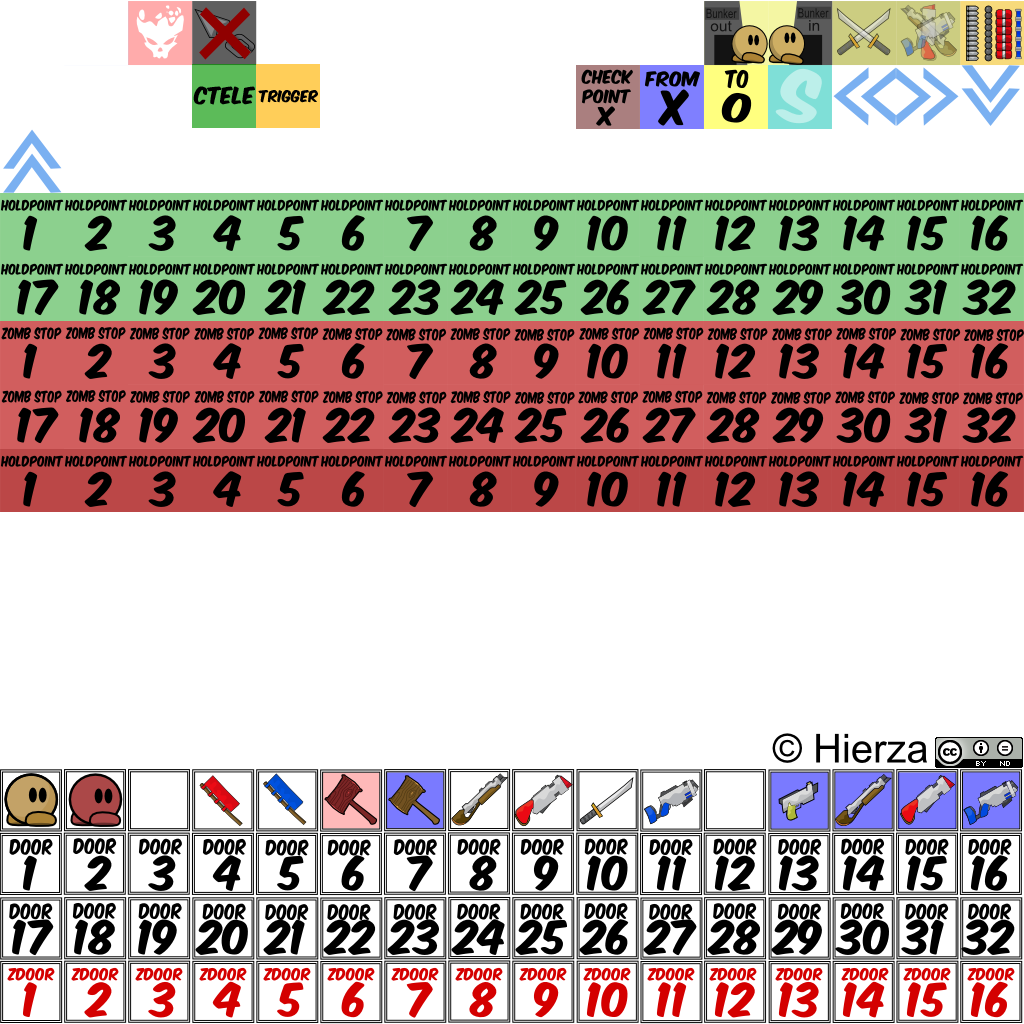
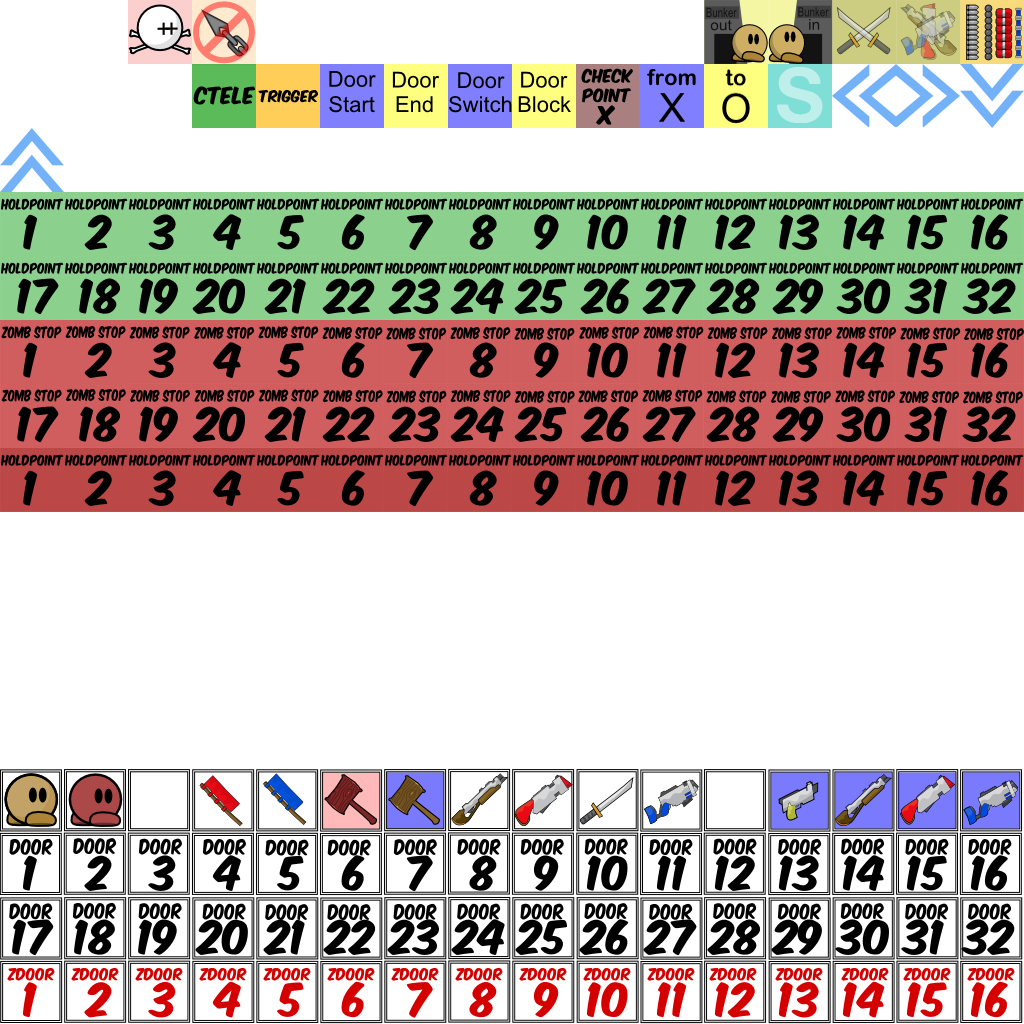
fixed some things, changed entities and added edit command.

diff --git a/src/game/editor/editor.cpp b/src/game/editor/editor.cpp
@@ -3593,7 +3593,7 @@ void CEditor::RenderServerSettingsEditor(CUIRect View)
 		UI()->DoLabel(&Button, "Command:", 12.0f, -1);
 
 		Button.VSplitLeft(70.0f, 0, &Button);
-		Button.VSplitLeft(180.0f, &Button, 0);
+		Button.VSplitLeft(500.0f, &Button, 0);
 		DoEditBox(&m_CommandBox, &Button, m_aSettingsCommand, sizeof(m_aSettingsCommand), 12.0f, &m_CommandBox);
 
 		// buttons
@@ -3617,6 +3617,8 @@ void CEditor::RenderServerSettingsEditor(CUIRect View)
 					CEditorMap::CSetting Setting;
 					str_copy(Setting.m_aCommand, m_aSettingsCommand, sizeof(Setting.m_aCommand));
 					m_Map.m_lSettings.add(Setting);
+					if(m_IsEditingSettingsCommand)
+						m_IsEditingSettingsCommand = false;
 				}
 			}
 		}
@@ -3625,11 +3627,38 @@ void CEditor::RenderServerSettingsEditor(CUIRect View)
 		{
 			ToolBar.VSplitRight(50.0f, &ToolBar, &Button);
 			Button.VSplitRight(5.0f, &Button, 0);
-			static int s_AddButton = 0;
-			if(DoButton_Editor(&s_AddButton, "Del", 0, &Button, 0, "Delete a command from the command list.")
-				|| Input()->KeyDown(KEY_DELETE))
+			static int s_DeleteButton = 0;
+			if(DoButton_Editor(&s_DeleteButton, "Del", 0, &Button, 0, "Delete a command from the command list."))
 				if(s_CommandSelectedIndex > -1 && s_CommandSelectedIndex < m_Map.m_lSettings.size())
 					m_Map.m_lSettings.remove_index(s_CommandSelectedIndex);
+
+			ToolBar.VSplitRight(50.0f, &ToolBar, &Button);
+			Button.VSplitRight(10.0f, &Button, 0);
+			static int s_EditButton = 0;
+			if(DoButton_Editor(&s_EditButton, "Edit", 0, &Button, 0, "Edit a command from the command list."))
+				if(s_CommandSelectedIndex > -1 && s_CommandSelectedIndex < m_Map.m_lSettings.size())
+				{
+					if(m_IsEditingSettingsCommand && m_aSettingsCommand[0] != 0 && str_find(m_aSettingsCommand, " "))
+					{
+						bool Found = false;
+						for(int i = 0; i < m_Map.m_lSettings.size(); i++)
+							if(!str_comp(m_Map.m_lSettings[i].m_aCommand, m_aSettingsCommand))
+							{
+								Found = true;
+								break;
+							}
+
+							if(!Found)
+							{
+								CEditorMap::CSetting Setting;
+								str_copy(Setting.m_aCommand, m_aSettingsCommand, sizeof(Setting.m_aCommand));
+								m_Map.m_lSettings.add(Setting);
+							}
+					}
+					str_copy(m_aSettingsCommand, m_Map.m_lSettings[s_CommandSelectedIndex].m_aCommand, sizeof(m_aSettingsCommand));
+					m_Map.m_lSettings.remove_index(s_CommandSelectedIndex);
+					m_IsEditingSettingsCommand = true;
+				}
 		}
 	}
 

diff --git a/src/game/editor/layer_tiles.cpp b/src/game/editor/layer_tiles.cpp
@@ -281,7 +281,7 @@ void CLayerTiles::BrushDraw(CLayer *pBrush, float wx, float wy)
 				continue;
 
 			// dont allow tele in and out tiles... same with speedup tile and tool
-			if(m_pEditor->GetSelectedLayer(0) == m_pEditor->m_Map.m_pGameLayer && (l->m_pTiles[y*l->m_Width+x].m_Index == TILE_TELEIN || l->m_pTiles[y*l->m_Width+x].m_Index == TILE_TELEOUT || l->m_pTiles[y*l->m_Width+x].m_Index == TILE_BOOST || (l->m_pTiles[y*l->m_Width+x].m_Index >= 19 && l->m_pTiles[y*l->m_Width+x].m_Index <= 24)))
+			if(m_pEditor->GetSelectedLayer(0) == m_pEditor->m_Map.m_pGameLayer && l->m_pTiles[y*l->m_Width+x].m_Index >= 19 && l->m_pTiles[y*l->m_Width+x].m_Index <= 27)
 				continue;
 
 			m_pTiles[fy*m_Width+fx] = l->m_pTiles[y*l->m_Width+x];
@@ -681,7 +681,7 @@ void CLayerTele::BrushDraw(CLayer *pBrush, float wx, float wy)
 			if(fx<0 || fx >= m_Width || fy < 0 || fy >= m_Height)
 				continue;
 			
-			if(l->m_pTiles[y*l->m_Width+x].m_Index == TILE_TELEIN || l->m_pTiles[y*l->m_Width+x].m_Index == TILE_TELEOUT)
+			if(l->m_pTiles[y*l->m_Width+x].m_Index == 25 || l->m_pTiles[y*l->m_Width+x].m_Index == TILE_TELEIN || l->m_pTiles[y*l->m_Width+x].m_Index == TILE_TELEOUT)
 			{
 				if(l->m_pTeleTile[y*l->m_Width+x].m_Number)
 					m_pTeleTile[fy*m_Width+fx].m_Number = l->m_pTeleTile[y*l->m_Width+x].m_Number;
@@ -803,7 +803,7 @@ void CLayerTele::FillSelection(bool Empty, CLayer *pBrush, CUIRect Rect)
 			else
 			{
 				m_pTiles[fy*m_Width+fx] = pLt->m_pTiles[(y*pLt->m_Width + x%pLt->m_Width) % (pLt->m_Width*pLt->m_Height)];
-				if(m_pTiles[fy*m_Width+fx].m_Index == TILE_TELEIN || m_pTiles[fy*m_Width+fx].m_Index == TILE_TELEOUT)
+				if(m_pTiles[fy*m_Width+fx].m_Index ==  25 || m_pTiles[fy*m_Width+fx].m_Index == TILE_TELEIN || m_pTiles[fy*m_Width+fx].m_Index == TILE_TELEOUT)
 				{
 					m_pTeleTile[fy*m_Width+fx].m_Type = m_pTiles[fy*m_Width+fx].m_Index;
 					if(!pLt->m_pTeleTile[(y*pLt->m_Width + x%pLt->m_Width) % (pLt->m_Width*pLt->m_Height)].m_Number && m_pEditor->m_TeleNum && m_pTiles[fy*m_Width+fx].m_Index > 0)

diff --git a/src/game/editor/editor.h b/src/game/editor/editor.h
@@ -631,6 +631,7 @@ public:
 
 		m_CommandBox = 0.0f;
 		m_aSettingsCommand[0] = 0;
+		m_IsEditingSettingsCommand = false;
 
 		ms_CheckerTexture = 0;
 		ms_BackgroundTexture = 0;
@@ -786,6 +787,7 @@ public:
 	static void EnvelopeEval(float TimeOffset, int Env, float *pChannels, void *pUser);
 	float m_CommandBox;
 	char m_aSettingsCommand[512];
+	bool m_IsEditingSettingsCommand;
 
 	void DoMapBorder();
 	int DoButton_Editor_Common(const void *pID, const char *pText, int Checked, const CUIRect *pRect, int Flags, const char *pToolTip);

diff --git a/src/game/editor/io.cpp b/src/game/editor/io.cpp
@@ -712,6 +712,8 @@ int CEditorMap::Load(class IStorage *pStorage, const char *pFileName, int Storag
 									((CLayerTiles*)pTiles)->m_pTiles[i].m_Index = TILE_TELEIN;
 								else if(((CLayerTele*)pTiles)->m_pTeleTile[i].m_Type == TILE_TELEOUT)
 									((CLayerTiles*)pTiles)->m_pTiles[i].m_Index = TILE_TELEOUT;
+								else if(((CLayerTele*)pTiles)->m_pTeleTile[i].m_Type == 25)
+									((CLayerTiles*)pTiles)->m_pTiles[i].m_Index = 25;
 								else
 									((CLayerTiles*)pTiles)->m_pTiles[i].m_Index = 0;
 							}
